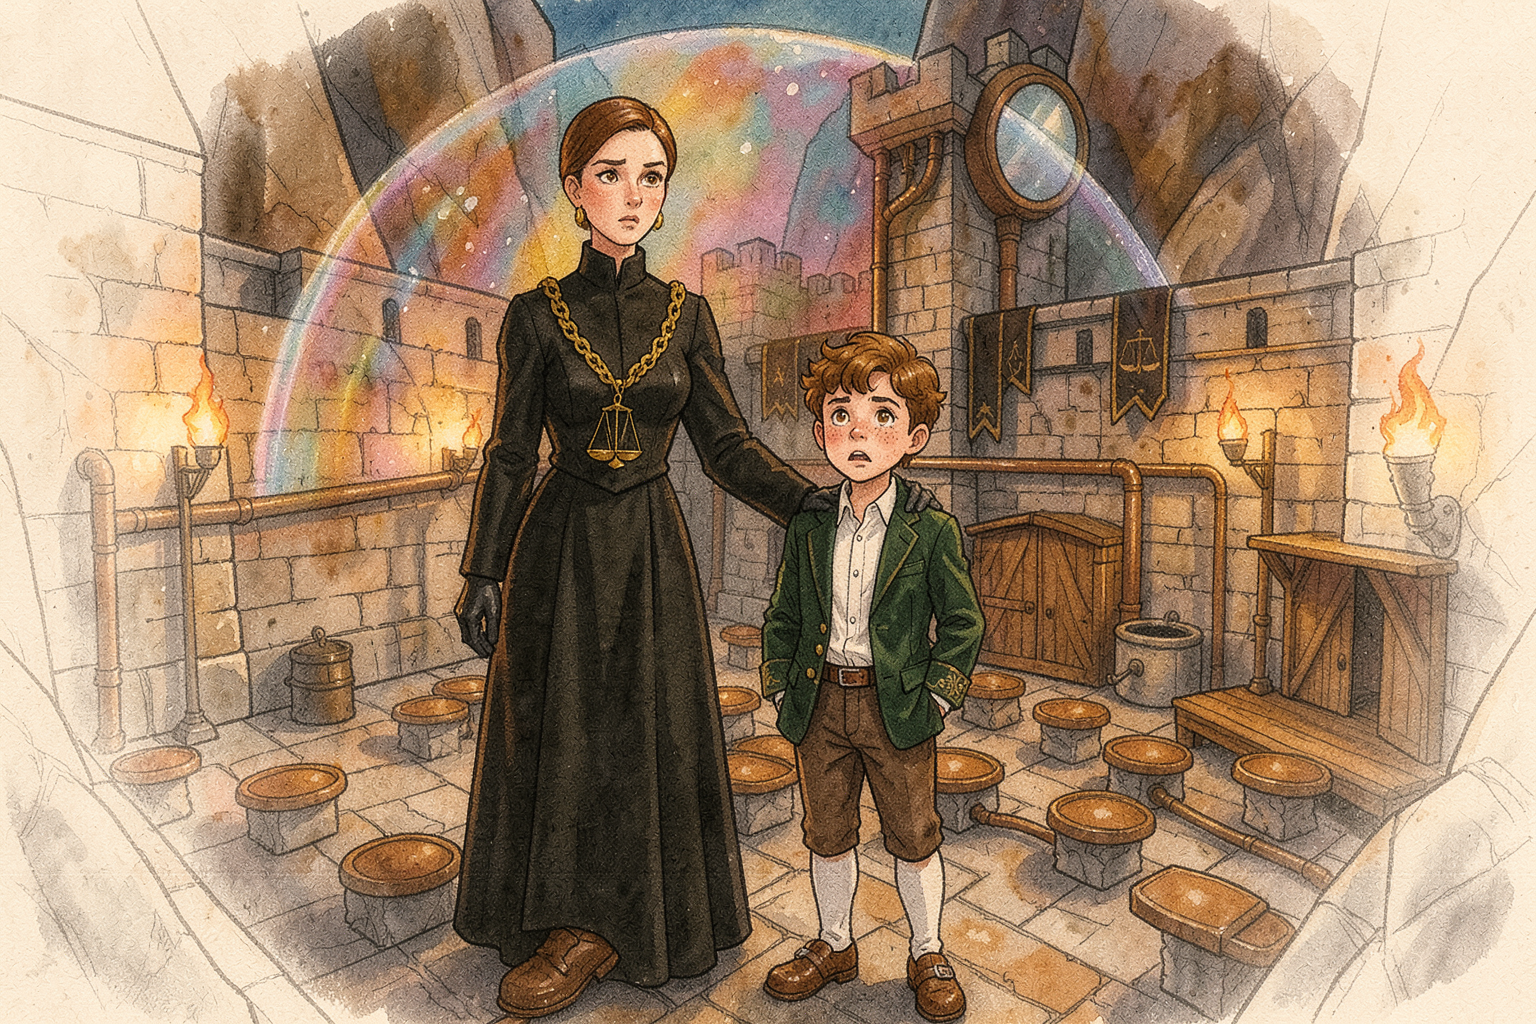
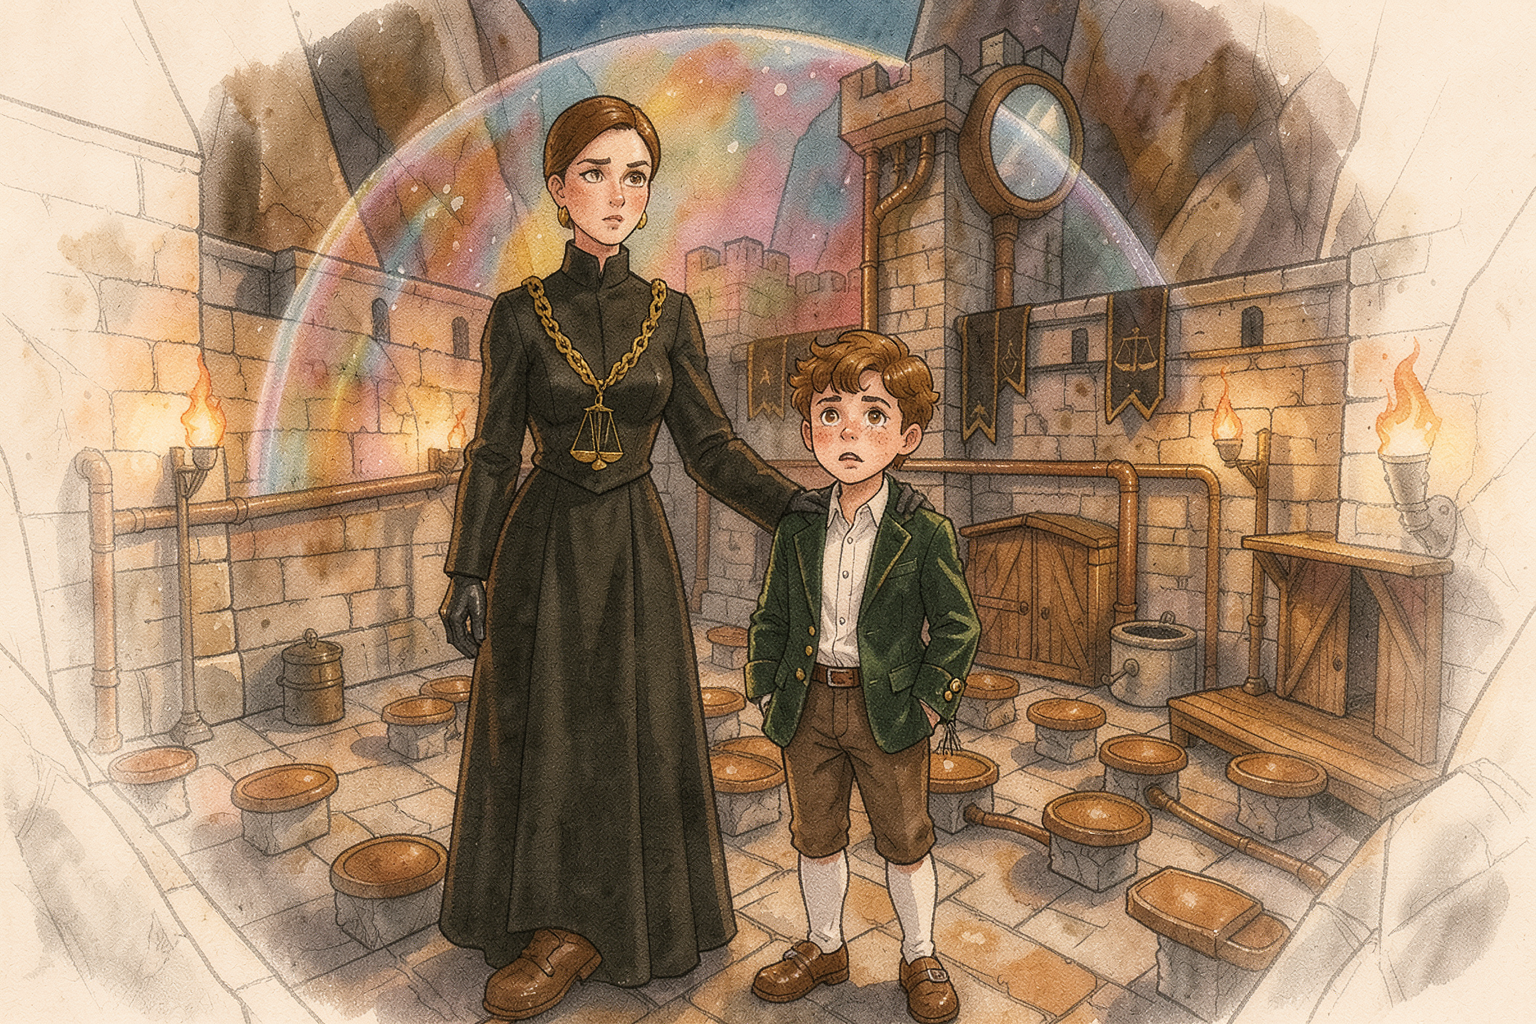
Offene Entscheidungen umgesetzt: Schweigen ohne Nebel, Goldknopf, Kettrichs Brille in der Skizze

diff --git a/docs/stand.md b/docs/stand.md
@@ -36,7 +36,7 @@ Stand: 14.10.2026
 - Bilder werden lokal erzeugt (Krita AI Diffusion / ComfyUI), nicht über Firmenkonten. Bevorzugtes Modell für eine spätere Veröffentlichung: FLUX.1 [schnell] (Apache-2.0) oder SDXL – siehe `docs/art/werkzeuge.md`.
 
 ## Nächste Schritte
-00. **Alle Bilder des ersten Abenteuers sind erzeugt** (14.10.2026, lokale Sitzung, Gesamtauftrag): Ringzeichen R1–R6 (Ringsiegel, Schließe des Fremden ersetzt, Suchspiel-Bilder bereinigt), Nachbesserung Perle 1, alle Figuren/Requisiten/Ortsbilder für Perle 2–7, alle Szenen Perle 2–7, Grundkarten und 28 Ortsskizzen (K1–K3, eingemessen), 54 Tagebuch-Skizzen (T1–T2). Seeds und Schwächen in den READMEs der Ordner. **Claude im Chat kann prüfen:** Übersichten `docs/art/szenen/perle-<n>/uebersicht-*.png`, `docs/art/tagebuch/uebersicht-*.png`, `docs/art/karten/pruefung-*-komplett.png`. Offene Punkte (4, keiner blockiert): `docs/offene-entscheidungen.md`. Neue Werkzeuge: `tools/erzeuge-szene.ps1`, `tools/uebersicht.py`, `tools/zeichen-einsetzen.py`, `tools/karte-zusammenbau.py`.
+00. **Alle Bilder des ersten Abenteuers sind erzeugt** (14.10.2026, lokale Sitzung, Gesamtauftrag): Ringzeichen R1–R6 (Ringsiegel, Schließe des Fremden ersetzt, Suchspiel-Bilder bereinigt), Nachbesserung Perle 1, alle Figuren/Requisiten/Ortsbilder für Perle 2–7, alle Szenen Perle 2–7, Grundkarten und 28 Ortsskizzen (K1–K3, eingemessen), 54 Tagebuch-Skizzen (T1–T2). Seeds und Schwächen in den READMEs der Ordner. **Claude im Chat kann prüfen:** Übersichten `docs/art/szenen/perle-<n>/uebersicht-*.png`, `docs/art/tagebuch/uebersicht-*.png`, `docs/art/karten/pruefung-*-komplett.png`. Die 4 offenen Punkte sind am 19.10.2026 von Pasco entschieden und umgesetzt (`docs/offene-entscheidungen.md`). Neue Werkzeuge: `tools/erzeuge-szene.ps1`, `tools/uebersicht.py`, `tools/zeichen-einsetzen.py`, `tools/karte-zusammenbau.py`.
 00. **Zeichen geändert (14.10.2026, Pasco): vier verschlungene Ringe statt Spirale** (Spirale erinnerte an ein Hakenkreuz). Story-Texte, Worldbuilding, READMEs und alle Prompts sind umgestellt („Ringsiegel“; Variablennamen `spirale_*` bleiben). Vorlagen `docs/art/requisiten/ringzeichen.png` und `ringsiegel-vorlage.png` aus `tools/siegel-vorlage.py`. **Lokal als Erstes:** Abschnitt „Zeichen des Kreises der Vier“ (R1–R6) in `docs/auftraege.md` – Ringsiegel erzeugen, Schließe des Fremden, `szene-fremder-im-regen` und Suchspiel-Bilder von Perle 1 bereinigen.
 0. **Bilder Perle 1 sind fertig** (13.10.2026, lokale Sitzung): Figuren, Requisiten, Orte, alle Szenen und Tagebuchseiten; Übersichten `docs/art/szenen/perle-1/uebersicht-1.png` und `-2.png`, Schwächen in den READMEs. **Von Claude geprüft (14.10.2026):** neu machen `figur-tickwort`, `szene-goblin-werkstatt`, `entdeckung-ausrufer-ratshalle` (Kreuz auf dem Turm), optional `szene-nordkai-kisten` und Dampfkarren; Prompts nachgeschärft, Auftrag „Nachbesserung Perle 1“ in `docs/auftraege.md`. Offen lokal: Karten K1–K3, dann **Perle 2** (Schritte V–W), **Perle 3** (Schritte G–I) **Perle 4** (Schritte J–L) **Perle 5** (Schritte M–O) und **Perle 6** (Schritte P–R) und **Perle 7** (Schritte S–U), danach **Tagebuch-Skizzen** (Schritte T1–T2); Beschreibungen in `docs/art/szenen/perle-<n>/README.md`. Danach prüft Claude im Chat die Übersichten.
 1. **Abnahmen:** Nerelle bestätigt (13.10.2026). Der Fremde: Pasco hat v3, Seed 2 gewählt – Gesicht unter der Kapuze sichtbar (`docs/worldbuilding/der-fremde.md` ergänzt; Szenen-Prompts in Perle 1, 4 und 7 angepasst, 14.10.2026). Grumak ersetzt. Offen: Tickwort mit dem Sohn ansehen.

diff --git a/docs/offene-entscheidungen.md b/docs/offene-entscheidungen.md
@@ -1,15 +1,14 @@
 # Offene Entscheidungen
 
-## Zusammenfassung (14.10.2026, lokale Sitzung)
-Der Gesamtauftrag aus `docs/auftraege.md` ist abgearbeitet; es ist **kein** Auftrag zurückgestellt worden. Offen sind **4 Punkte**, alle zu Bildern, bei denen eine Vorgabe nicht ganz getroffen ist. Keiner blockiert etwas anderes.
+## Zusammenfassung (19.10.2026)
+Alle vier Punkte sind von Pasco entschieden und umgesetzt. **Keine offenen Entscheidungen.**
 
-Reihenfolge zum Bearbeiten:
-1. **Punkt 1 – Prüflisten-Verstöße mit nur einer Runde** (am wichtigsten: Goldknopf in Perle 6, „Schweigen ohne Nebel“). Entscheiden, ob nachgebessert wird.
-2. **Punkt 2 – Dampfkarren mit vier Rädern** (Story sagt drei).
-3. **Punkt 3 – Kettrichs Brille in Szenen.**
-4. **Punkt 4 – Strell verbeugt sich nicht.**
-
-Alle Übersichten: `docs/art/szenen/perle-<n>/uebersicht-*.png`, `docs/art/tagebuch/uebersicht-*.png`, `docs/art/karten/pruefung-*-komplett.png`.
+| Punkt | Entscheidung (Pasco, 19.10.2026) | Umgesetzt |
+|---|---|---|
+| 1. Prüfliste nicht erfüllt | b) lokal nachbessern | Beide „Schweigen“-Bilder neu (kein Nebel mehr), Goldknopf in der Vorführung per Bildbearbeitung sichtbar |
+| 2. Dampfkarren vier Räder | a) hinnehmen | – |
+| 3. Kettrichs Brille | b) Skizze nachbessern, a) Szenen lassen | Tagebuch-Skizze nachbearbeitet |
+| 4. Strell verbeugt sich nicht | so lassen | – |
 
 ---
 

diff --git a/docs/art/tagebuch/README.md b/docs/art/tagebuch/README.md
@@ -19,4 +19,4 @@ Ausgearbeitet von Claude am 14.10.2026. Kleine Skizzen für die Laschen **Tasche
 Alle 54 Skizzen mit `tools/erzeuge-szene.ps1`, je 4 Seeds, Referenzen aus der Kopfzeile. Übersichten: `uebersicht-taschen.png`, `uebersicht-menschen.png`.
 Gewählt ist Seed 1, außer: `herzsplitter` 3 (einziger mit vier Farben), `quelle-wasser` 1, `silber` 2, `paeckchen` 3, `gildenzeichen-leise_hand` 1, Menschen `tickwort` 3, `vael` 4 (Flaumhaar), `fesk` 2, `fink` 2, `grisk` 1, `ysolde` 2, `jaro` 2, `kettrich` 2.
 
-**Bekannte Schwächen:** `brief` – Ringsiegel sauber, vier Ringe. `faehrfrau` – Ringe auf dem Ruder. `fremder` – Gesicht sichtbar (wie gewählt). `kettrich` – normale Brille statt drei Gläser. `yrsa` – Rußflecken im Gesicht. `gildenzeichen-leise_hand` zeigt eine Hand mit erhobenem Finger vor einer Jacke. Einige Skizzen haben einen leicht gelblichen Papierrand statt nur Creme.
+**Bekannte Schwächen:** `brief` – Ringsiegel sauber, vier Ringe. `faehrfrau` – Ringe auf dem Ruder. `fremder` – Gesicht sichtbar (wie gewählt). `kettrich` – am 19.10.2026 mit `menschen/kettrich-brille.prompt.txt` nachbearbeitet (Seed 1): jetzt gestapelte Gläser wie im Einzelbild. `yrsa` – Rußflecken im Gesicht. `gildenzeichen-leise_hand` zeigt eine Hand mit erhobenem Finger vor einer Jacke. Einige Skizzen haben einen leicht gelblichen Papierrand statt nur Creme.

diff --git a/docs/art/szenen/perle-6/README.md b/docs/art/szenen/perle-6/README.md
@@ -138,11 +138,11 @@ Alle mit `tools/erzeuge-szene.ps1`, FLUX.2 klein 4B, je 6 Seeds. Übersicht: `ue
 | `entdeckung-vardholm-hof` | 2 | – |
 | `szene-kugelhalle` | 2 | Viele Kugeln in mehr als vier Farbtönen (Orange, Gold) |
 | `szene-modell-des-walls` | 6 | Zettel mit unleserlicher Handschrift (in allen Seeds) |
-| `entdeckung-vorfuehrung-liora` / `-cassian` | 2 / 2 | Der **fehlende Goldknopf** ist nicht zu erkennen; Kuppel nur als blasse Glasglocke |
+| `entdeckung-vorfuehrung-liora` / `-cassian` | Bildbearbeitung 3 / 5 (19.10.2026) | Mit `vorfuehrung-goldknopf.prompt.txt` nachbearbeitet: Jacke jetzt grün, am Ärmel fehlt ein Goldknopf, lose Fäden hängen (bei Cassian dezenter). Kuppel nur als blasse Glasglocke |
 | `szene-hinter-dem-stall-liora` / `-cassian` | 3 / 3 | Kind ohne Jacke im weißen Hemd |
 | `szene-festmahl-vardholm` | 3 | – |
 | `szene-funken-frei` | 3 | Die freigelassenen Funken sind kaum zu sehen |
-| `szene-schweigen-im-spalt` | 4 | Graue Schwaden wirken wie Nebel (alle Seeds); kein Spiegel mit Riss erkennbar |
+| `szene-schweigen-im-spalt` | 10 (Runde 2, 19.10.2026) | Runde 1 wirkte wie Nebel; jetzt klar und farblos. Kein Spiegel mit Riss erkennbar |
 | `szene-ruf-gross-erde` / `-feuer` / `-wasser` / `-wind` | 3 / 2 / 3 / 3 | – |
 | `entdeckung-vardholm-morgen` | 2 | – |
 | `tagebuch-perle-6` | 5 | Buch auf Tisch; unleserliche Notizen |

diff --git a/docs/art/szenen/perle-4/README.md b/docs/art/szenen/perle-4/README.md
@@ -171,7 +171,7 @@ Alle mit `tools/erzeuge-szene.ps1`, FLUX.2 klein 4B, je 6 Seeds. Übersichten: `
 | `szene-fremder-am-grauen` | 1 | Gesicht sichtbar wie gewählt; Ringzeichen auf einem Pfosten, vier Ringe im Kreis |
 | `szene-gnollenlager` | 3 | – |
 | `figur-ashka` | 8 (Runde 2) | Runde 1: Ashka in allen Seeds doppelt. Runde 2 mit nur einer Referenz und „nur eine“ im Prompt |
-| `szene-nacht-das-schweigen` | 5 | Graue Schwaden am Himmel, die wie Nebel wirken (alle Seeds) |
+| `szene-nacht-das-schweigen` | 8 (Runde 2, 19.10.2026) | Runde 1 wirkte das Grau wie Nebel; Prompt ohne „fog“, Grau als unbemalter Bildteil. Jetzt klar, kein Nebel; der Unterschied grau/farbig ist dafür schwach |
 | `szene-ruf-erde` / `-wasser` / `-feuer` / `-wind` | 3 / 3 / 2 / 4 | Ashka nicht deutlich erkennbar |
 | `szene-morgen-danach` | 2 | – |
 | `tagebuch-perle-4` | 4 | Buch auf Tisch |
